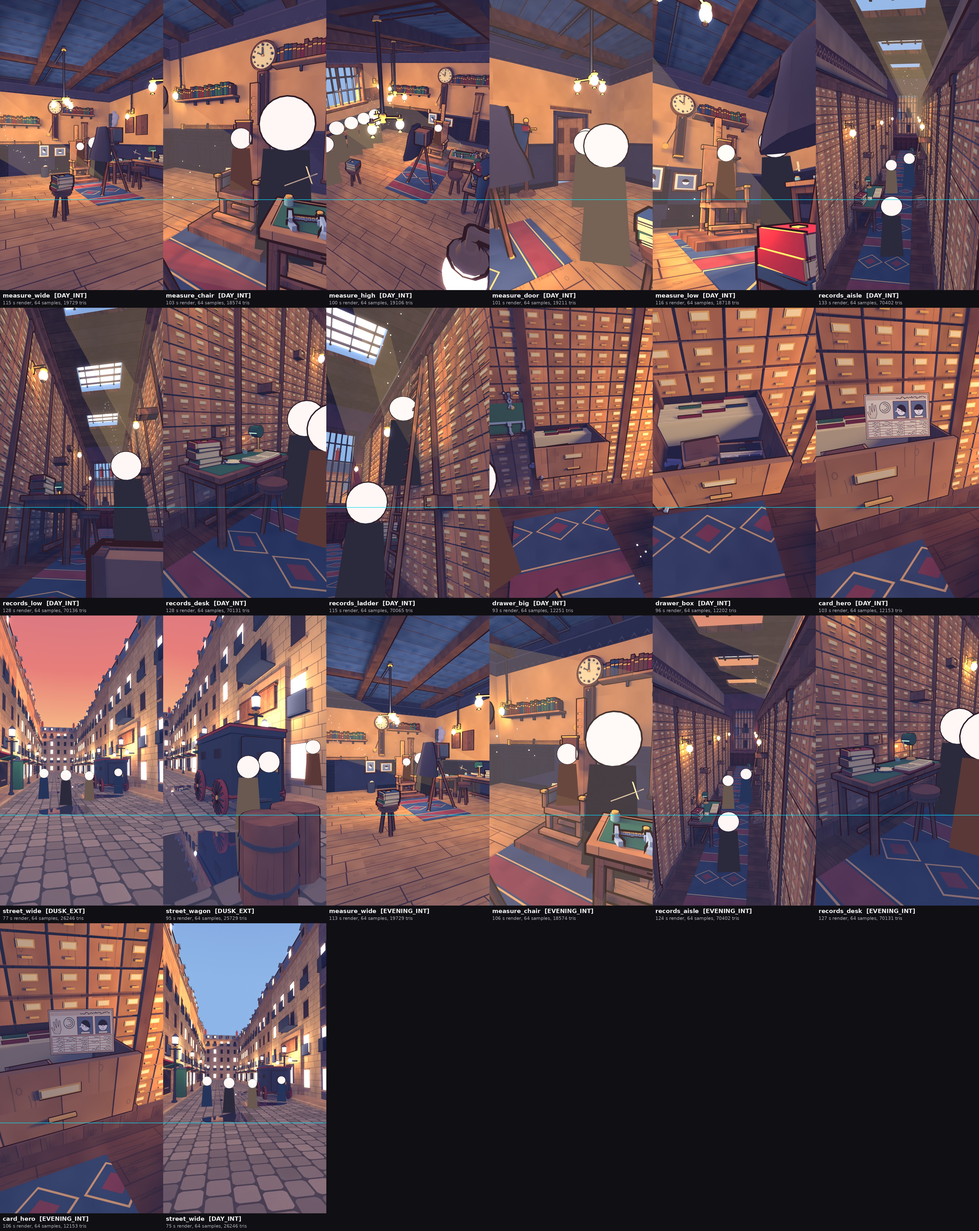
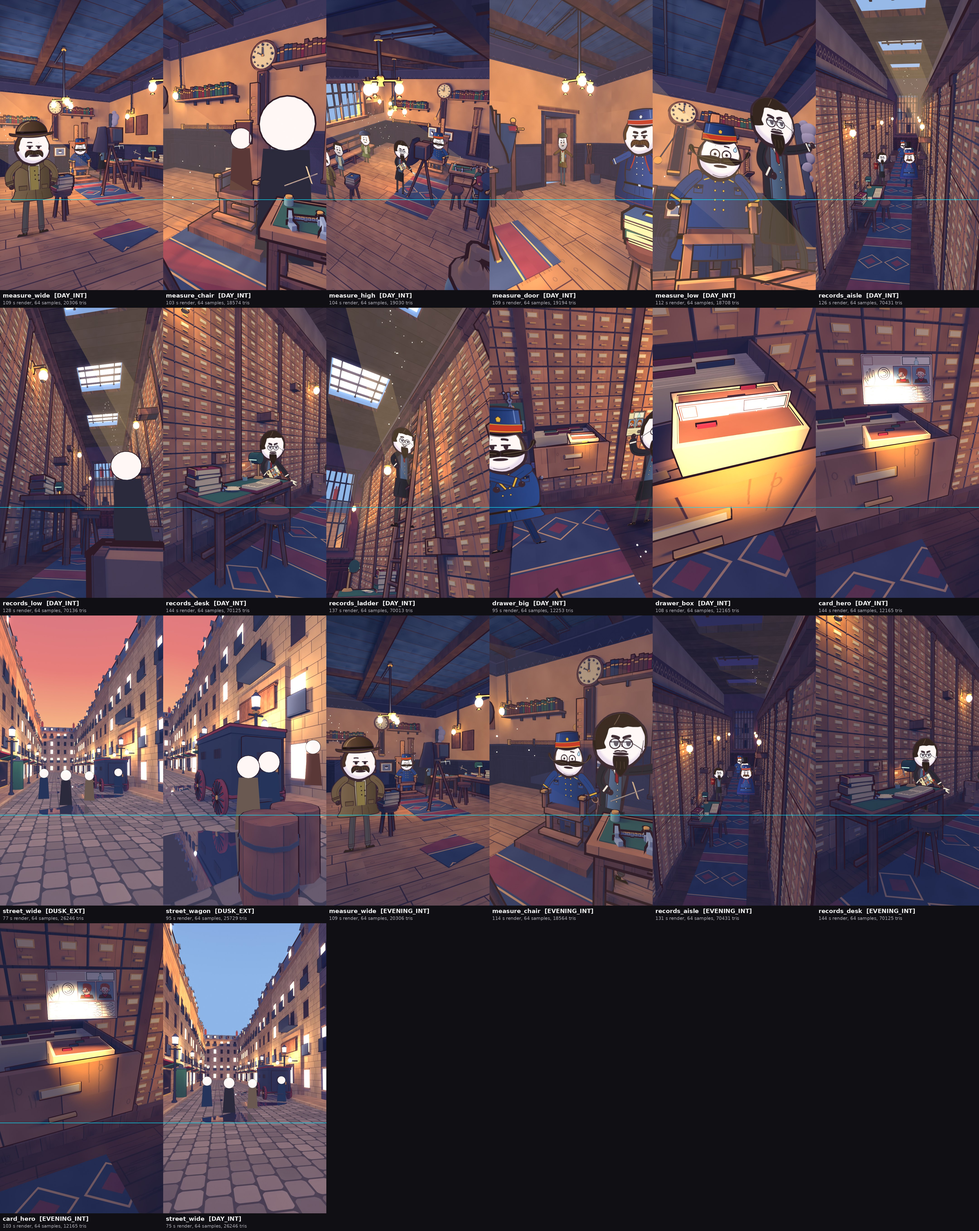
Film 17: set3d17 fix round 1 (QA-art P1+P2)
Claude-Session: https://claude.ai/code/session_017iwyCteu2qpQYE4jRFXENS

diff --git a/film/v3/set3d17/hue.md b/film/v3/set3d17/hue.md
@@ -4,31 +4,23 @@ Bands: shade hue 240-260; black point (luma p1) 0.08-0.12; blue share 14-30 %; m
 
 | tile | red | orange | blue | magenta | shade hue | p1 | vivid % | dim 240-260 % | dim 0-45 % | val | dark | head ring luma (median) | render s | verdict |
 |---|---|---|---|---|---|---|---|---|---|---|---|---|---|---|
-| measure_wide [DAY_INT] | 35.7 | 29.3 | 25.2 | 6.9 | 234.1 | 0.120 | 0.0 | 29 | 1 | 0.50 | 0.03 | chair 93, clerk 66, prisoner_toise 67, bench1 124, bench2 142 | 115 | OUT: shade |
+| measure_wide [DAY_INT] | 26.5 | 27.4 | 29.0 | 14.2 | 233.8 | 0.119 | 0.1 | 24 | 7 | 0.47 | 0.04 | chair 88, clerk 69, bench0 85, queue0 94, door_mid 164 | 109 | OUT: shade,magenta |
 | measure_chair [DAY_INT] | 42.0 | 29.9 | 16.3 | 8.7 | 243.2 | 0.118 | 0.0 | 41 | 5 | 0.53 | 0.09 | chair 77, clerk 136 | 103 | ok |
-| measure_high [DAY_INT] | 47.4 | 19.5 | 17.6 | 10.6 | 248.9 | 0.116 | 0.0 | 32 | 1 | 0.48 | 0.09 | chair 84, bench0 140, bench1 142, bench2 140, bench3 139, queue0 93 | 100 | OUT: magenta |
-| measure_door [DAY_INT] | 28.6 | 52.3 | 9.4 | 1.2 | 253.1 | 0.215 | 0.0 | 7 | 16 | 0.57 | 0.00 | queue1 139, door_in 137, door_mid 136 | 101 | OUT: p1,blue |
-| measure_low [DAY_INT] | 36.2 | 31.2 | 22.4 | 4.1 | 237.9 | 0.119 | 0.3 | 30 | 2 | 0.52 | 0.05 | chair 129, clerk 66 | 116 | OUT: shade |
-| records_aisle [DAY_INT] | 41.6 | 10.3 | 16.8 | 17.0 | 261.4 | 0.119 | 1.3 | 8 | 12 | 0.40 | 0.16 | aisle0 66, aisle1 71, aisle2 58 | 133 | OUT: shade,magenta |
+| measure_high [DAY_INT] | 41.3 | 16.8 | 21.4 | 14.8 | 246.3 | 0.113 | 0.9 | 35 | 2 | 0.45 | 0.12 | chair 97, bench0 128, bench2 126, queue0 106, tripod 77 | 104 | OUT: magenta |
+| measure_door [DAY_INT] | 34.5 | 46.8 | 10.5 | 1.3 | 247.5 | 0.215 | 0.0 | 8 | 17 | 0.58 | 0.00 | door_out 120, door_r 137 | 109 | OUT: p1,blue |
+| measure_low [DAY_INT] | 29.4 | 24.6 | 37.7 | 5.9 | 234.6 | 0.119 | 2.1 | 22 | 15 | 0.45 | 0.09 | chair 98, clerk 58 | 112 | OUT: shade,blue,vivid |
+| records_aisle [DAY_INT] | 40.3 | 10.1 | 18.4 | 18.0 | 258.7 | 0.119 | 1.5 | 5 | 12 | 0.40 | 0.14 | aisle1 58, aisle2 62, ladder_foot 45, aisle_far 38 | 126 | OUT: magenta |
 | records_low [DAY_INT] | 40.0 | 10.9 | 18.9 | 14.1 | 255.3 | 0.118 | 0.8 | 17 | 16 | 0.40 | 0.17 | low_a 92 | 128 | OUT: magenta |
-| records_desk [DAY_INT] | 45.0 | 6.6 | 26.5 | 15.0 | 237.8 | 0.119 | 3.0 | 13 | 6 | 0.43 | 0.08 | desk_clerk 98, desk_stand 249 | 128 | OUT: shade,magenta,vivid |
-| records_ladder [DAY_INT] | 56.7 | 14.7 | 14.1 | 10.3 | 252.3 | 0.120 | 0.2 | 30 | 25 | 0.47 | 0.13 | ladder_foot 85, ladder_up 94 | 115 | OUT: magenta |
-| drawer_big [DAY_INT] | 51.5 | 19.1 | 10.2 | 13.5 | 243.9 | 0.123 | 0.0 | 10 | 8 | 0.49 | 0.05 | inspector 59 | 93 | OUT: p1,blue,magenta |
-| drawer_box [DAY_INT] | 58.8 | 15.2 | 14.6 | 7.4 | 241.7 | 0.123 | 0.0 | 14 | 0 | 0.53 | 0.06 | - | 96 | OUT: p1 |
-| card_hero [DAY_INT] | 61.6 | 16.3 | 9.4 | 10.5 | 240.3 | 0.138 | 0.0 | 12 | 1 | 0.53 | 0.03 | - | 103 | OUT: p1,blue,magenta |
+| records_desk [DAY_INT] | 47.7 | 10.6 | 19.1 | 13.8 | 242.6 | 0.119 | 3.5 | 11 | 1 | 0.43 | 0.09 | desk_clerk 90, desk_stand 84 | 144 | OUT: magenta,vivid |
+| records_ladder [DAY_INT] | 61.3 | 13.9 | 8.3 | 10.5 | 259.1 | 0.119 | 0.0 | 9 | 41 | 0.45 | 0.09 | ladder_up 91 | 137 | OUT: blue,magenta |
+| drawer_big [DAY_INT] | 45.5 | 11.2 | 19.6 | 19.1 | 238.1 | 0.120 | 3.9 | 12 | 2 | 0.46 | 0.08 | drawer_r 127, drawer_l 73 | 95 | OUT: shade,p1,magenta,vivid |
+| drawer_box [DAY_INT] | 39.6 | 29.2 | 11.9 | 5.7 | 247.1 | 0.116 | 0.0 | 18 | 1 | 0.58 | 0.10 | - | 108 | OUT: blue |
+| card_hero [DAY_INT] | 37.0 | 12.6 | 15.8 | 23.6 | 252.9 | 0.126 | 0.0 | 12 | 0 | 0.43 | 0.13 | - | 144 | OUT: p1,magenta |
 | street_wide [DUSK_EXT] | 62.4 | 12.2 | 7.6 | 13.0 | 240.4 | 0.168 | 0.4 | 27 | 0 | 0.62 | 0.01 | wagon_door 57, street_a 117, street_b 91, street_c 111 | 77 | OUT: p1,blue,magenta |
 | street_wagon [DUSK_EXT] | 33.3 | 25.3 | 22.2 | 12.0 | 240.5 | 0.120 | 0.2 | 20 | 2 | 0.55 | 0.01 | wagon_door 55, wagon_step 55, steps_top 160 | 95 | OUT: p1,magenta |
-| measure_wide [EVENING_INT] | 35.8 | 29.0 | 28.6 | 4.4 | 229.6 | 0.109 | 0.0 | 15 | 1 | 0.53 | 0.01 | chair 117, clerk 73, prisoner_toise 82, bench1 104, bench2 124 | 113 | OUT: shade |
-| measure_chair [EVENING_INT] | 37.9 | 45.8 | 11.7 | 2.2 | 231.3 | 0.182 | 0.0 | 7 | 21 | 0.58 | 0.00 | chair 100, clerk 156 | 106 | OUT: shade,p1,blue |
-| records_aisle [EVENING_INT] | 36.0 | 6.0 | 14.6 | 18.3 | 260.1 | 0.105 | 0.2 | 17 | 10 | 0.39 | 0.09 | aisle0 67, aisle1 72, aisle2 61 | 124 | OUT: shade,magenta |
-| records_desk [EVENING_INT] | 37.3 | 4.4 | 31.6 | 16.7 | 244.4 | 0.105 | 0.2 | 18 | 6 | 0.42 | 0.06 | desk_clerk 93, desk_stand 249 | 127 | OUT: blue,magenta |
-| card_hero [EVENING_INT] | 56.5 | 15.6 | 13.9 | 12.0 | 235.5 | 0.143 | 0.1 | 11 | 0 | 0.51 | 0.01 | - | 106 | OUT: shade,p1,blue,magenta |
+| measure_wide [EVENING_INT] | 27.2 | 6.4 | 40.0 | 22.2 | 233.3 | 0.105 | 1.1 | 10 | 3 | 0.38 | 0.12 | chair 80, clerk 53, bench0 43, queue0 70, door_mid 127 | 109 | OUT: shade,blue,magenta |
+| measure_chair [EVENING_INT] | 43.4 | 6.8 | 30.1 | 16.1 | 235.7 | 0.136 | 1.8 | 25 | 6 | 0.41 | 0.11 | chair 63, clerk 105 | 114 | OUT: shade,p1,blue,magenta,vivid |
+| records_aisle [EVENING_INT] | 9.5 | 2.2 | 32.9 | 23.3 | 254.4 | 0.105 | 2.7 | 31 | 0 | 0.30 | 0.33 | aisle1 48, aisle2 56, ladder_foot 41, aisle_far 34 | 131 | OUT: blue,magenta,vivid |
+| records_desk [EVENING_INT] | 22.6 | 9.5 | 30.5 | 22.2 | 248.0 | 0.105 | 7.3 | 18 | 1 | 0.35 | 0.17 | desk_clerk 67, desk_stand 64 | 144 | OUT: blue,magenta,vivid |
+| card_hero [EVENING_INT] | 23.6 | 13.5 | 24.6 | 21.6 | 250.5 | 0.112 | 1.1 | 15 | 0 | 0.38 | 0.23 | - | 103 | OUT: magenta |
 | street_wide [DAY_INT] | 17.9 | 14.3 | 46.3 | 16.1 | 250.0 | 0.154 | 0.2 | 20 | 0 | 0.60 | 0.01 | wagon_door 53, street_a 110, street_b 86, street_c 105 | 75 | OUT: p1,blue,magenta |
-
-## Summary (honest)
-
-- Render cost, 720x1280, 64 samples + OIDN, 4 threads, no DOF: **75-133 s per frame** (street 75-98 s, reveal 93-106 s, measure 100-119 s, records 115-148 s); build 0.3-1.1 s; 12 k (reveal) to 70 k (records) triangles.
-- Met on all 20 tiles: no readable text, no DOF, black point p1 0.105-0.123 in 16 of 20 interior tiles (OUT: measure_door 0.215, card_hero 0.138/0.143, street 0.12-0.17, measure_chair EVENING 0.182), vivid blue < 1.5 % in 19 of 20 (records_desk 3.0 % from the skylight edge bloom).
-- Hue bands: **only `measure_chair [DAY_INT]` passes every band**. Residual misses: shade hue 230-238 in measure_wide / measure_low / records_desk (a little too cyan), 255-261 in records_aisle (too violet); magenta 10-19 % in the records office, the reveal and the street (warm wood plus violet ambient mixes toward 320-345 degrees); blue 9-10 % in measure_door, drawer_big and card_hero (little shade in those frames).
-- Head-ring luma (median luma around each placeholder head, band about 95-165): 14 of 33 staged heads are inside; the dark ones sit in the records canyon (58-98), at the toise (66-67) and in front of the police wagon (55-57). Use the bench / door / desk / street_a-c marks for acting, or raise the cabinet strips (`strip_w`) for a brighter backdrop.
-- The street (exterior, dusk) is allowed to leave the interior band.

diff --git a/film/v3/set3d17/FIX1.md b/film/v3/set3d17/FIX1.md
@@ -1,0 +1,32 @@
+# set3d17 fix round 1 (answers QA_ART_SET.md, P1 + P2; P3 horse not done)
+
+Re-rendered at 720x1280, 64 samples, OIDN denoise, with the REAL cast17 cards (stage Actor cards) on the stand points: measure_low, measure_door, measure_high, drawer_box, card_hero, records_aisle, measure_wide, records_desk, drawer_big, records_ladder (DAY_INT) and measure_wide, measure_chair, records_aisle, records_desk, card_hero (EVENING_INT). The other 5 finals are the old ones. `contact.jpg`, `contact_small.jpg`, `hue.md` rebuilt (all 20 tiles; hue.md ring numbers for the old tiles are the old placeholder numbers). Placeholder numbers below come from `stand_report.py`; real cards lean toward a low or high camera, so near heads sit up to 130 px further out (measure_low clerk, `dx -0.3` applied).
+
+## P1
+| # | before | after | number |
+|---|---|---|---|
+| 1 hood | cam (-0.45,-0.3,0.5): hood over `clerk`; measure_door look (3.2,-2.4,1.3): slab over left 25 % | measure_low cam (0.3,0.55,0.5); measure_door look (3.2,-2.9,1.3); tripod unmoved; its cloth drape shortened (0.95 to 0.72 m) because at the QA camera the old hem still covered 16 % of the frame | hood (magenta repaint) 4.3 % of measure_low, 1.3 % of measure_door; 0 % of every staged head disc; foreground ledgers/crate moved 1-1.5 m ahead of the lens |
+| 2 drawer_box | dim brown box low in the drawer, about 190 px | light-ochre box (`box_ochre`) 0.28 tall, on a ledger block so its top is flush with the drawer rim, own warm spot `box_lamp`, sun 0.5x, window 200 W, camera (0.09,0.99,1.68) | box 341 px wide at 720 (47 % of the frame); box luma 154 vs 80 for the drawer interior = 1.9x |
+| 3 hero card | two grey generic faces + squiggle name | both portraits Dupont bare-headed (ginger hair, stubble, ruddy cheeks, red neckerchief): front + true profile with an ear; empty glass bottle in a framed name panel; no letters or digits; same art in `cast17.card_svg` (`card_match.jpg`) | ginger and bottle read in card_hero at 360x640 (see contact) |
+| 4 measure_high | globes at head height among the bench heads, blown bracket globe at y 990+ | second gasolier hung 0.85 m higher (`lamps_up`); foreground bracket unlit; look-at z 0.5 to 1.1 | nearest globe to a staged head 6.3 head radii (needed 1.2); frame pixels at y 880-950: max luma 164, 0 px >= 250 |
+
+## P2
+5. Stand points (placeholder heads, 720x1280). All staged heads: cy 450-760, chin < 880, inside the frame, no head overlaps below 1.0 head-D except where noted.
+   - measure_wide: bench0 (111,642) queue0 (239,650) chair (357,651) clerk (411,609) door_mid (613,642).
+   - measure_high: bench0 (184,616) bench2 (251,542) queue0 (152,745) chair (435,616) tripod (339,691).
+   - measure_door: door_out (339,586) door_r (531,637) door_x (668,581) (new marks door_r, door_x; door_in/door_mid dropped).
+   - measure_low: chair (324,714) clerk (509,555).
+   - records_aisle: aisle1 (321,758, moved to (-0.9,5.4)) aisle2 (389,746) ladder_foot (386,685) aisle_far (377,635); aisle0 dropped.
+   - records_desk (look z 1.0 to 1.4): desk_clerk (419,586, moved to (-0.9,3.4)) desk_stand (611,636, moved to (0.3,3.8)).
+   - records_ladder (look z 3.2): ladder_up (349,598); ladder_foot dropped.
+   - drawer_big: new marks drawer_r (583,476) drawer_l (190,660); the old clerk/inspector were off-frame.
+6. EVENING_INT: sun 0.25x, skylights `#2f3270`, sky `#12143a/#26295a/#3a3878`, gain 0.5, lamp_k 1.4 (not 2.5: 2.5 made the frame brighter than day), window 40 W. Mean luma evening/day: measure_wide 0.80, records_aisle 0.72, records_desk 0.79, card_hero 0.86 (target 0.80-0.85).
+7. measure_wide near floor: second small rug, crate stack (3 crates), coal scuttle, stool with a kepi, added to the existing stool and gas standard (y -3.5..-1.5, path to the chair kept clear).
+8. Cast: `inspector17` `tache_scale` 1.3. `test_cast17.py canvas / robust / sheet`: 3 073 575 checks, 0 failed.
+
+## Remaining issues
+- P3 horse not done: the police wagon still has shafts and no horse (keep it parked, as QA advised).
+- drawer_box and card_hero keep a warm bloom on the drawer front and the card centre (the box is still the brightest object, but the card is near white).
+- EVENING_INT gas lamps are 1.4x (day 0.75x); the evening look is dark ceilings and navy skylights with warm pools, not a full night.
+- The seated inspector is a frontal sprite floating over the 3D chair (feet hidden); the measure_low tile shows the tripod hem at the top right (4 %).
+- measure_chair EVENING and street tiles other than the listed ones were not re-checked beyond the render.
